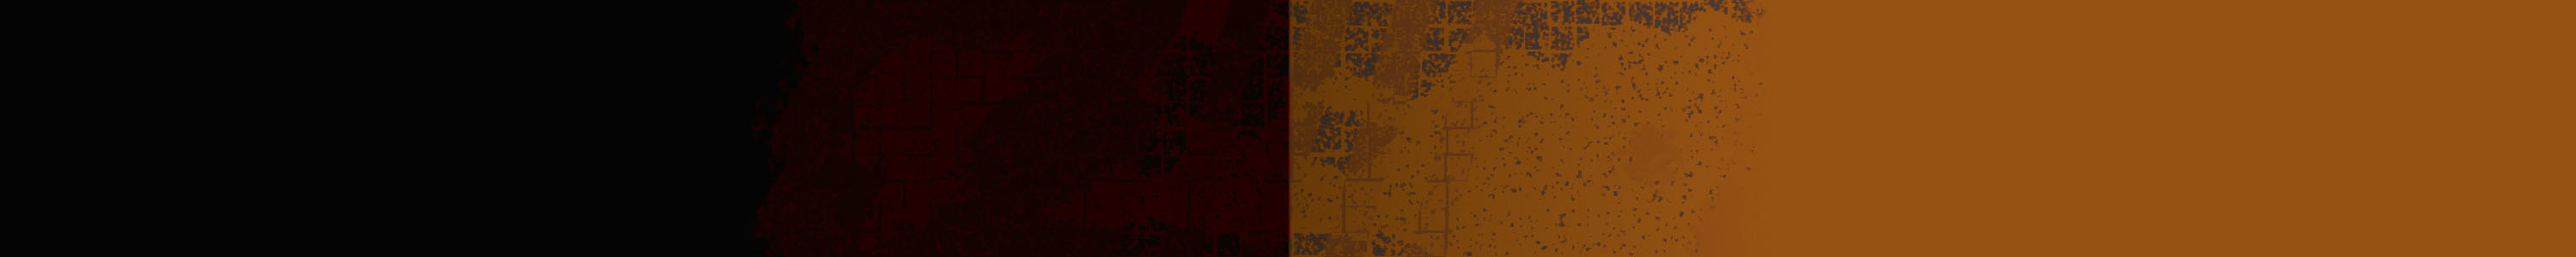
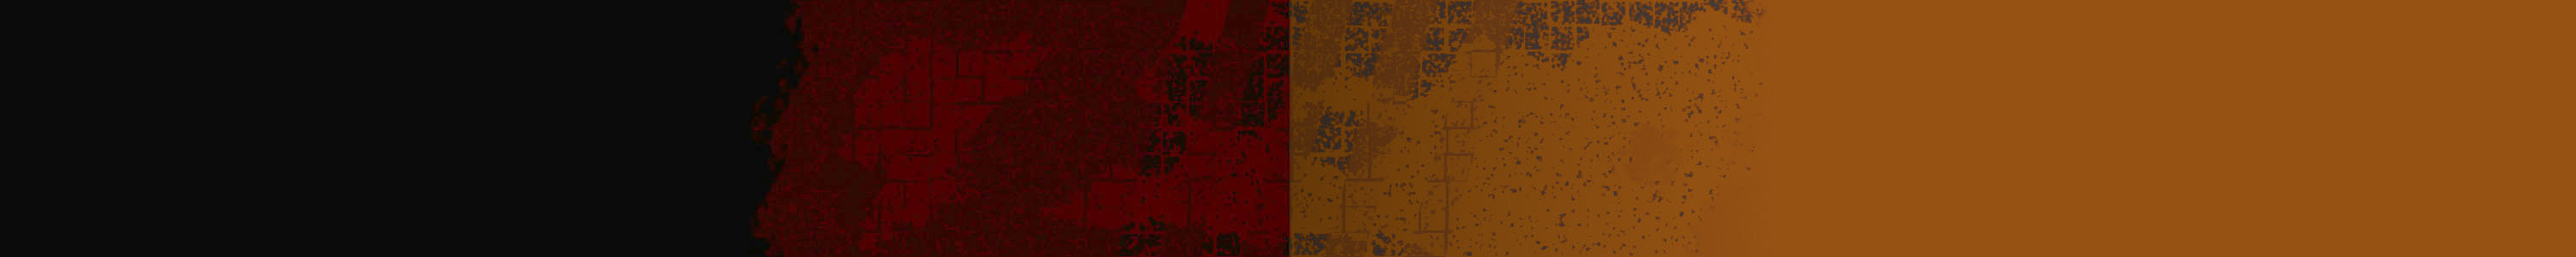
Add files via upload

Changed region(s): [[0.279, 0.0, 0.527, 1.0]]

diff --git a/css/mystyle.css b/css/mystyle.css
@@ -24,7 +24,6 @@
 	width: 400px;
 	height: 800px;
 	z-index: 1
-
 }
 
 	.info_section{
@@ -42,7 +41,6 @@
 
 	#img_game img{
 		width: 290px;
-
 	}
 
 	#text_game{
@@ -62,6 +60,8 @@
 	z-index: 1;
 	padding: 15px;
 	box-sizing: border-box;
+	background-image: url("../img/bg_form.jpg");
+	background-repeat: repeat-x;
 }
 
 #ghost_exit{
@@ -79,11 +79,15 @@
 	background-image: url("../img/btn_closeH.png");
 }
 #create_account{
-	width: 20px;
-	height: 20px;
-	background-color: red;
+	width: 124px;
+	height: 50px;
+	background-image: url("../img/btn_insc.png");
 }
-
+#create_account:hover{
+	width: 124px;
+	height: 50px;
+	background-image: url("../img/btn_insc_H.png");
+}
 #inscription{
 	
 }
@@ -114,11 +118,15 @@ body{
 }
 
 header{
+	position: relative;
 	height: 200px;
 	width: 100%;
 	background-image: url("../img/banner.jpg");
 	background-size: contain;
 	background-repeat: repeat-y;
+	color: white;
+	font-family: font-family: 'Oswald', sans-serif;
+	font-size: 3em;
 }
 
 #logo{
@@ -152,6 +160,8 @@ header{
 	text-align: center;
 	background-image: url("../img/titre1_deco.png");
 	background-repeat: repeat-x;
+	text-shadow: 2px 2px 4px #000000;
+	box-shadow: 0 50px 200px white;
 }
 #titleXbox{
 	background-color: #00A651;
@@ -166,14 +176,26 @@ header{
 	height: 60px;
 	color: white;
 	text-align: center;
+	border-radius: 5px 5px 0 0;
 }
-
+.title3{
+	background-color: black;
+	position: relative;
+	width: 100%;
+	height: 60px;
+	color: white;
+	text-align: center;
+	border-radius: 5px;
+}
 #ps4{
 	float: left;
 	background-color: #0058A6;
 	background-image: url("../img/banner_ps4.png");
 	background-position: right;
 	background-repeat: no-repeat;
+	border-radius: 5px;
+	box-shadow: 1px 1px 5px grey;
+	transition: all .3s;
 }
 #ps4:hover{
 	float: left;
@@ -181,6 +203,7 @@ header{
 	background-image: url("../img/banner_ps4_H.png");
 	background-position: right;
 	background-repeat: no-repeat;
+	box-shadow: 0 0 0;
 }
 #xbox{
 	float: right;
@@ -188,6 +211,9 @@ header{
 	background-image: url("../img/banner_xbone.png");
 	background-position: right;
 	background-repeat: no-repeat;
+	border-radius: 5px;
+	box-shadow: 1px 1px 5px grey;
+	transition: all .3s;
 }
 #xbox:hover{
 	float: right;
@@ -195,6 +221,7 @@ header{
 	background-image: url("../img/banner_xbone_H.png");
 	background-position: right;
 	background-repeat: no-repeat;
+	box-shadow: 0 0 0;
 }
 #center{
 	margin: auto;
@@ -218,6 +245,8 @@ header{
 	text-align: center;
 	color: black;
 	font-size: 1.5em;
+	border-radius: 5px;
+	box-shadow: 1px 1px 5px grey;
 }
 
 .button_slider
@@ -284,7 +313,12 @@ footer{
 	margin: 5px;
 	display: inline;
 }
-
+#baseline{
+	position: absolute;
+	right: 5%;
+	top: 50%;
+	text-shadow: 1px 1px 2px #000000;
+}
 #num_achat{
 	font-weight: bolder;
 	color: white;
@@ -300,6 +334,9 @@ h2{
     font-size: 1.5em;
 	margin-left: 10px;
 }
+.title3 h2{
+	font-size: 2.5em;
+}
 
 /*--IMAGES--*/
 
@@ -307,15 +344,22 @@ h2{
 	margin: auto;
 	margin-bottom: 25px;
 	border-radius: 5px;
-
+	box-shadow: 5px 5px 5px grey;
 }
-
+.imgConsole{
+	opacity: 0.3;
+    filter: alpha(opacity=30); /* For IE8 and earlier */
+	transition: all .3s;
+}
+.imgConsole:hover{
+	opacity: 1;
+    filter: alpha(opacity=100); /* For IE8 and earlier */
+}
 #icon_cart{
 	height: 40px;
 	display: inline;
     vertical-align: middle;
 }
-
 .imgConsole{
 	margin-left: 20px;
 }

diff --git a/index.html b/index.html
@@ -25,11 +25,12 @@
 						<tr><th>Prix: </th><th><label id="prix"></label></th></tr>
 					</table>
 				</div>
-				
 			</div>
 
 		<div class="over_menu" id="connection">
-
+			<div class="title3">
+				<h2>Connexion</h2>
+			</div>
 			<form id="conxForm" id="conxForm" method="post" action="#">
 				<table>
 					<caption>Connexion au compte</caption>
@@ -48,6 +49,9 @@
 		</div>
 						
 			<div class="over_menu" id="inscription">
+				<div class="title3">
+					<h2>Inscription</h2>
+				</div>
 				<form id="inscForm" id="inscForm" method="post" action="#">
 					<table>
 						<caption>Informations personnelles</caption>
@@ -126,15 +130,15 @@
 	</div>
 
 	<header>
-	<div id="logo">
-	
-	</div>
+		<div id="logo">
+		</div>
+		<strong><p id="baseline">LES PRIX À BATTRE SONT ICI!</p></strong>
 	</header>
 	
 	<div id="container">
 		<div id="center">
 			<a href="#CP"><div id="ps4" class="console">
-				<img class="imgConsole"src="img/console_ps4.png">
+				<img class="imgConsole" src="img/console_ps4.png">
 			</div></a>
 
 			<a href="#CX"><div id="xbox" class="console">
@@ -145,7 +149,7 @@
 		
 		<div id="show_off">
 			<div class="title1" id="titleXbox">
-				<h1>Xbox One</h1>
+				<h1 id="CX">Xbox One</h1>
 			</div>
 			<!--Action_Xbox-->
 
@@ -218,7 +222,7 @@
 
 		<div id="show_off">
 			<div class="title1" id="titlePs4">
-				<h1>PlayStation 4</h1>
+				<h1 id="CP">PlayStation 4</h1>
 			</div>
 			<!--Action_PS4-->
 
